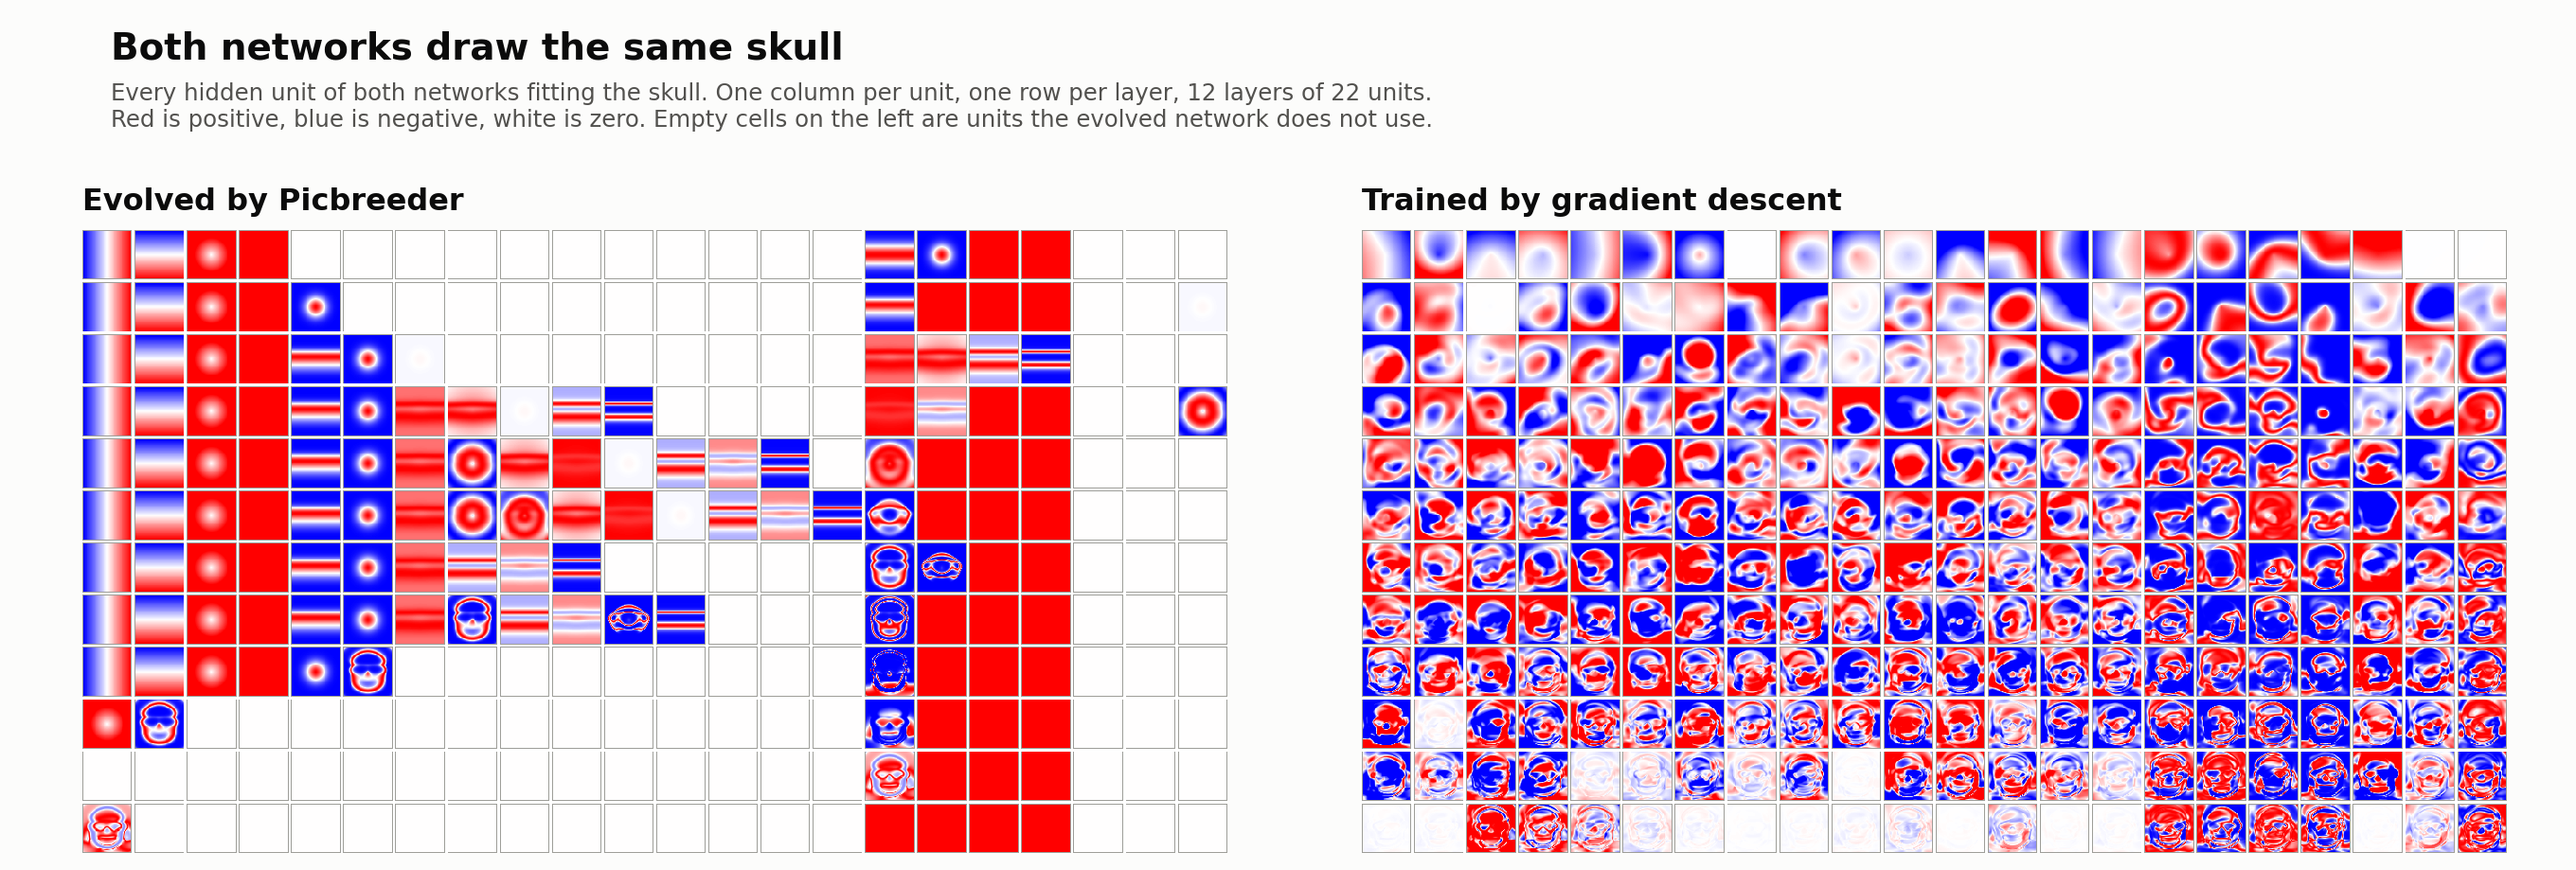
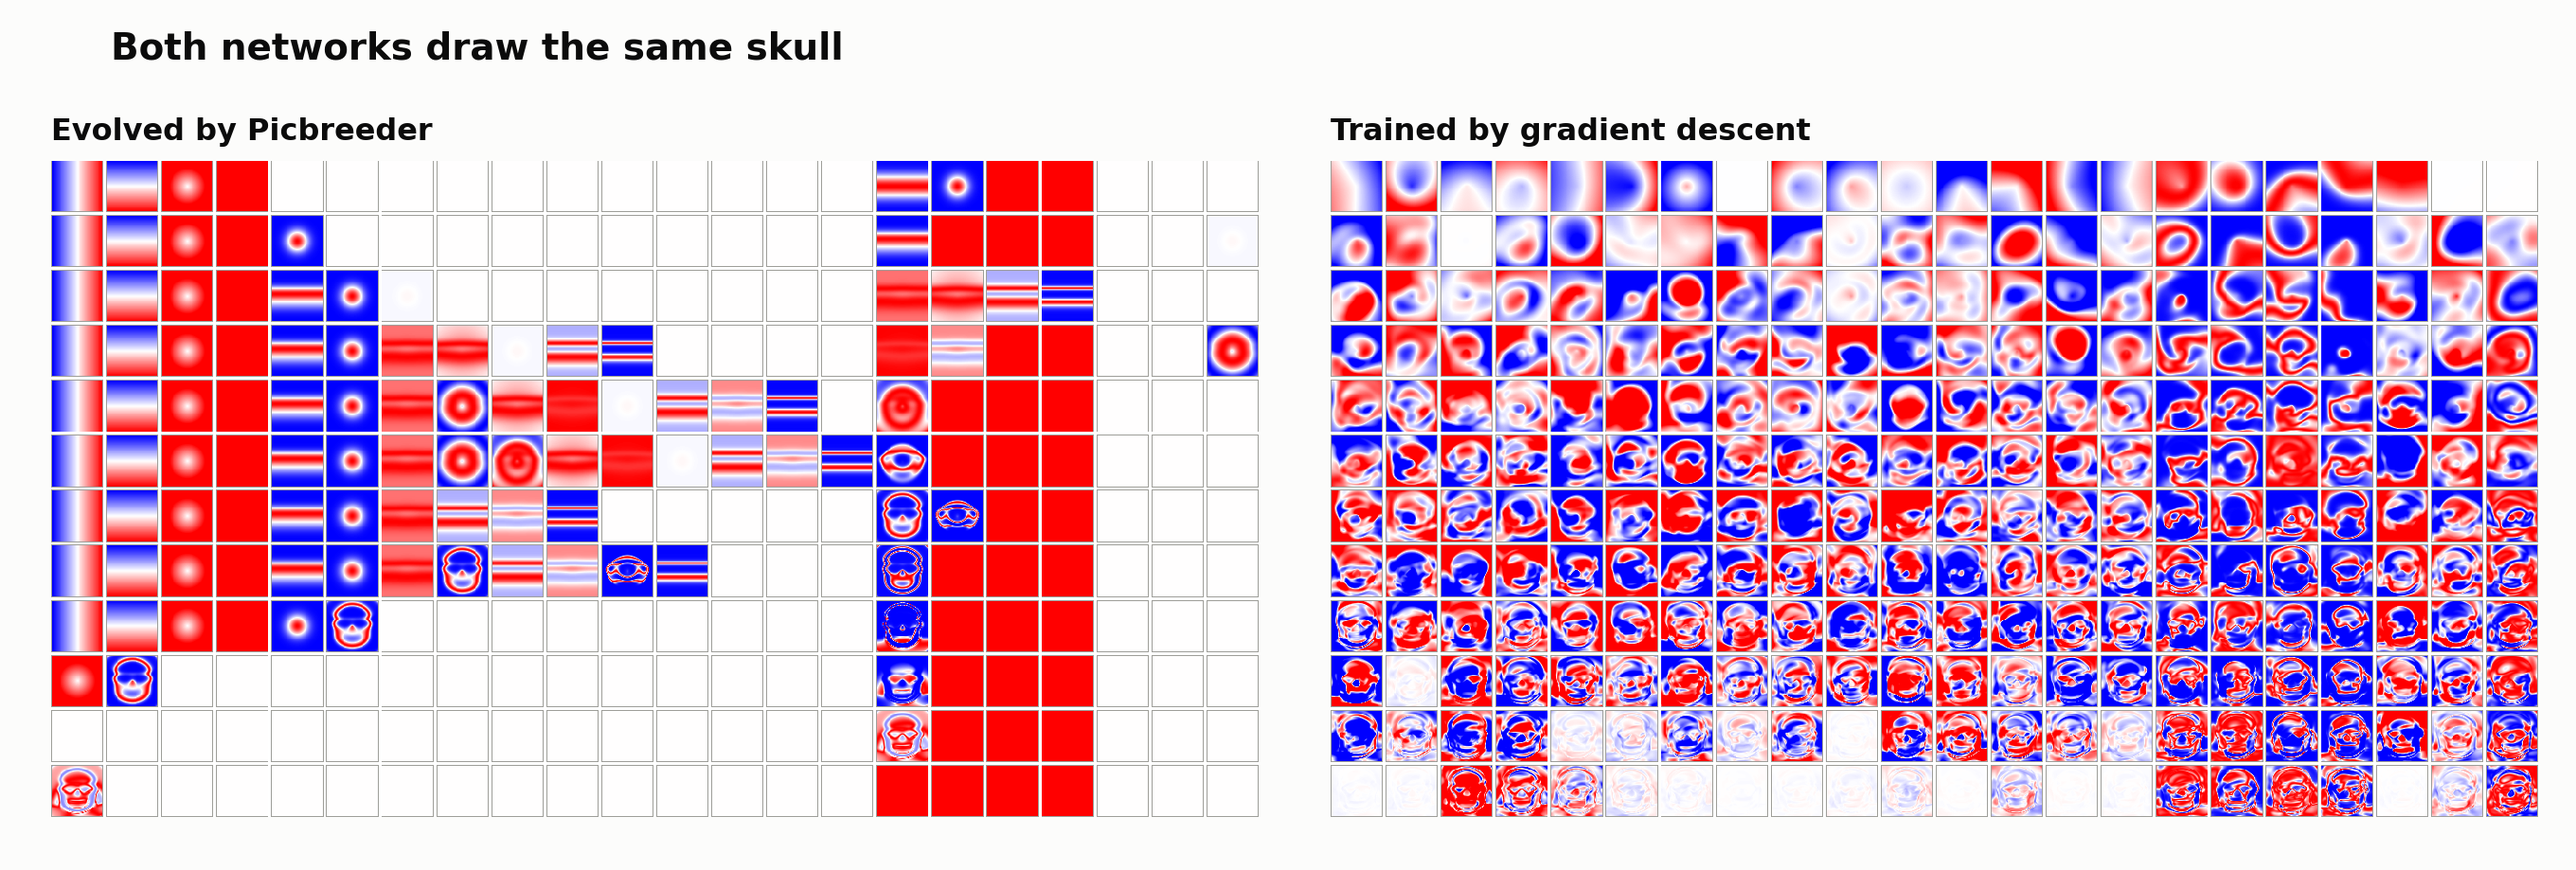
fig

diff --git a/experiments/plot_headline.py b/experiments/plot_headline.py
@@ -105,14 +105,10 @@ axl.set_title("Deeper helps Muon only", loc="left", fontsize=11.5,
 axr.set_title("Wider helps AdamW only", loc="left", fontsize=11.5,
               fontweight="bold", color=INK, pad=8)
 
+# Setup and caveats live in the README next to the image, not in the figure.
 fig.text(0.052, 0.955, "Two ways of buying independent directions",
          ha="left", va="top", fontsize=14, fontweight="bold", color=INK)
-fig.text(0.052, 0.885,
-         "One seed per point, 2500 steps, one learning rate per optimizer. "
-         "Muon also reaches lower loss at every point,\nso read these as trends. "
-         "The matched-loss control is the second figure.",
-         ha="left", va="top", fontsize=8.8, color=INK2)
-fig.subplots_adjust(top=0.755, bottom=0.125, left=0.088, right=0.985, wspace=0.26)
+fig.subplots_adjust(top=0.845, bottom=0.115, left=0.088, right=0.985, wspace=0.26)
 fig.savefig(OUT / "fig_mechanism.png", dpi=200, facecolor=SURFACE)
 print("wrote", OUT / "fig_mechanism.png")
 
@@ -144,11 +140,6 @@ ax.set_ylim(0.30, 0.57)
 ax.set_xlim(2.7005, 2.788)
 fig2.text(0.055, 0.955, "Muon uses more directions at the same loss",
           ha="left", va="top", fontsize=14, fontweight="bold", color=INK)
-fig2.text(0.055, 0.888,
-          "30M GPT, TinyStories, 4000 steps, one point per seed. Learning rate "
-          "tuned per optimizer.\nThe loss spread is 0.05. The gap in independent "
-          "directions is 0.14.",
-          ha="left", va="top", fontsize=8.8, color=INK2)
-fig2.subplots_adjust(top=0.755, bottom=0.125, left=0.135, right=0.975)
+fig2.subplots_adjust(top=0.875, bottom=0.115, left=0.135, right=0.975)
 fig2.savefig(OUT / "fig_matched_loss.png", dpi=200, facecolor=SURFACE)
 print("wrote", OUT / "fig_matched_loss.png")

diff --git a/experiments/plot_neurons.py b/experiments/plot_neurons.py
@@ -64,8 +64,6 @@ def tile(grid, cmap="bwr"):
 def main(target):
     evolved = unit_images(target)
     sgd = unit_images(f"sgd_{target}")
-    n_layers, width = evolved.shape[:2]
-
     panels = [("Evolved by Picbreeder", tile(evolved)),
               ("Trained by gradient descent", tile(sgd))]
 
@@ -78,16 +76,10 @@ def main(target):
         ax.set_title(name, loc="left", fontsize=11.5, fontweight="bold",
                      color=INK, pad=8)
 
-    fig.text(0.043, 0.965, "Both networks draw the same skull",
+    # How to read the grid belongs in the README next to the image, not here.
+    fig.text(0.043, 0.965, f"Both networks draw the same {target}",
              ha="left", va="top", fontsize=14, fontweight="bold", color=INK)
-    fig.text(0.043, 0.905,
-             f"Every hidden unit of both networks fitting the {target}. One "
-             f"column per unit, one row per layer, {n_layers} layers of "
-             f"{width} units.\nRed is positive, blue is negative, white is "
-             "zero. Empty cells on the left are units the evolved network "
-             "does not use.",
-             ha="left", va="top", fontsize=8.8, color=INK2)
-    fig.subplots_adjust(top=0.735, bottom=0.02, left=0.02, right=0.985,
+    fig.subplots_adjust(top=0.855, bottom=0.02, left=0.02, right=0.985,
                         wspace=0.06)
 
     out = os.path.join(ROOT, "results", f"fig_neurons_{target}.png")

diff --git a/experiments/viz_qualitative.py b/experiments/viz_qualitative.py
@@ -138,9 +138,8 @@ def plot_weight_sweeps(target, init_scale, n_weights=5, n_steps=7, r=0.6, seed=3
                     ax.set_ylabel(f"{label[:10]}\nw{wi}", fontsize=6)
                 if wi == 0 and gi == 0:
                     ax.set_title(f"t={t:+.2f}", fontsize=6)
-    fig.suptitle(f"Moving one weight in the first layer. Target: {target}.\n"
-                 f"Top {n_weights} rows are {GEOMS[0][0]}. "
-                 f"Bottom {n_weights} rows are {GEOMS[1][0]}.",
+    # Which rows are which optimizer is on the row labels and in the README.
+    fig.suptitle(f"Moving one weight in the first layer. Target: {target}.",
                  fontsize=9)
     fig.tight_layout()
     out = os.path.join(ROOT, "results", f"qual_weightsweeps_{target}.png")

diff --git a/README.md b/README.md
@@ -258,6 +258,10 @@ a simple smooth pattern such as a gradient, a round blob, or a set of bands, and
 many cells are empty. On the right, the gradient descent network, where every
 unit is a busy swirl.](results/fig_neurons_skull.png)
 
+One column per unit, one row per layer, 12 layers of 22 units. Red is positive,
+blue is negative, white is zero. Empty cells on the left are units the evolved
+network does not use, which is why it counts as about 3% dense.
+
 The evolved units are things you can name. A gradient, a blob, a stripe pattern.
 The SGD units are swirls. Both networks draw the same skull. Only one of them
 builds it out of parts.
